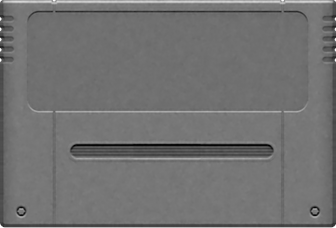
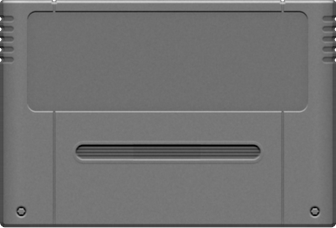
PAL SNES cart: the PAL Super Game Boy's fine grain, grip measured on Roy's photo, label recess as round as the new sticker corners
Claude-Session: https://claude.ai/code/session_01WiBJRzTJgAxD2RohPdLRfN

diff --git a/tools/carts/snes_pal_render.py b/tools/carts/snes_pal_render.py
@@ -24,7 +24,7 @@ def light(height, gain=1.5, blur=0.9):
     return (1 + (lam / lz - 1) * gain) * (1 - occ)
 rng = np.random.default_rng(5)
 def grain(s):
-    g = nd.gaussian_filter(rng.normal(0, 1, (h, w)).astype(np.float32), 1.0 * SS)  # coarse enough to survive the shelf's scale (Roy)
+    g = nd.gaussian_filter(rng.normal(0, 1, (h, w)).astype(np.float32), 0.6 * SS)  # the PAL Super Game Boy's fine grain (Roy 2026-10-29)
     return g / g.std() * s
 def down(a):
     return np.asarray(Image.fromarray(a.astype(np.float32), 'F').resize((W, H), Image.Resampling.BOX))
@@ -103,7 +103,7 @@ for v in VENTS:
 vd = nd.distance_transform_edt(np.pad(vent, 1))[1:-1, 1:-1]
 height -= nd.gaussian_filter(vent.astype(np.float32), 0.5 * SS) * 1.1  # shallower (Roy 2026-10-23)
 # the label recess: deep, with big rounded corners
-label = rect(0.0818, 0.0504, 0.9152, 0.4891, 0.0342)  # the sticker's rect + 1.5px all round, radius r10 + 1.5: concentric (Roy)
+label = rect(0.0818, 0.0504, 0.9152, 0.4891, 0.0253)  # the sticker's rect + 1.5px all round, radius r7 + 1.5: concentric (Roy)
 height -= label * 2.0
 # the middle plate below the label and the side pieces either side; a fine seam marks the plate's
 # edges all the way up to the top rim (no step across the side pieces: Roy)
@@ -113,23 +113,24 @@ for u in (0.161, 0.841):
 
 # the grip: a long pill-shaped well inside a soft, slightly raised flat lip that rounds over
 # into it; four ribs run along its floor, the middle segment a step deeper (Roy's photo)
-slot = rect(0.209, 0.634, 0.814, 0.696, 0.024)
-rim = rect(0.199, 0.621, 0.824, 0.709, 0.033)
+# measured on Roy's Super Mario All-Stars photo (2026-10-29): a little narrower and taller
+slot = rect(0.225, 0.636, 0.775, 0.700, 0.0217)
+rim = rect(0.215, 0.619, 0.785, 0.718, 0.0335)
 rim_d = nd.distance_transform_edt(np.pad(rim, 1))[1:-1, 1:-1]
 height += np.sin(np.clip(rim_d / (2.0 * SS), 0, 1) * np.pi / 2) * 0.5
 slot_in = nd.distance_transform_edt(np.pad(slot, 1))[1:-1, 1:-1]
 height -= np.sin(np.clip(slot_in / (2.2 * SS), 0, 1) * np.pi / 2) * 4.6  # deeper (Roy)
 mid = rect(0.397, 0.62, 0.596, 0.72) & slot
 height -= mid * 0.6
-period = V(0.696 - 0.634) / 4.5
-ribs = 0.5 + 0.5 * np.cos((yy - V(0.634)) / period * 2 * np.pi)
+period = V(0.700 - 0.636) / 4.5
+ribs = 0.5 + 0.5 * np.cos((yy - V(0.636)) / period * 2 * np.pi)
 height += slot * ribs * 0.9 * np.clip(slot_in / (1.5 * SS), 0, 1)
 # screws: a deep round well with the screw head, its hole off to the upper right
 # real carts: a small screw head sitting in a shallow countersink
 gaps = gamebit(0.063, 0.929, height) | gamebit(0.937, 0.929, height)
 height *= cart
 # the flat face sits at the Game Boy carts' level, so the same colour reads the same (Roy)
-grey = 119 * crisp(height) + grain(2.8)
+grey = 119 * crisp(height) + grain(1.3)
 # the recess and the wells catch less light than the open plastic
 grey *= 1 - 0.06 * nd.gaussian_filter(label.astype(np.float32), SS)
 grey *= 1 - 0.65 * nd.gaussian_filter(gaps.astype(np.float32), 0.5 * SS)
